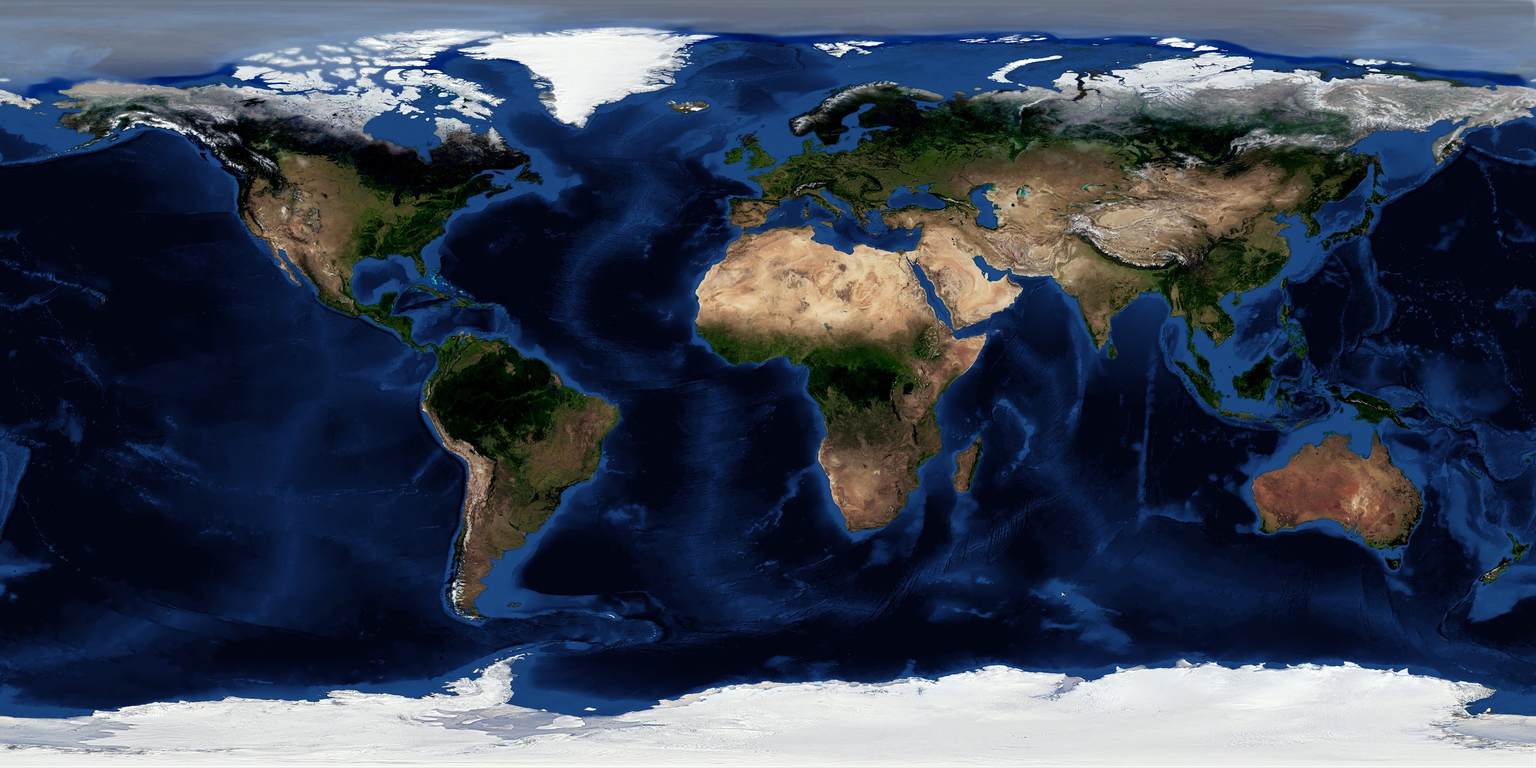
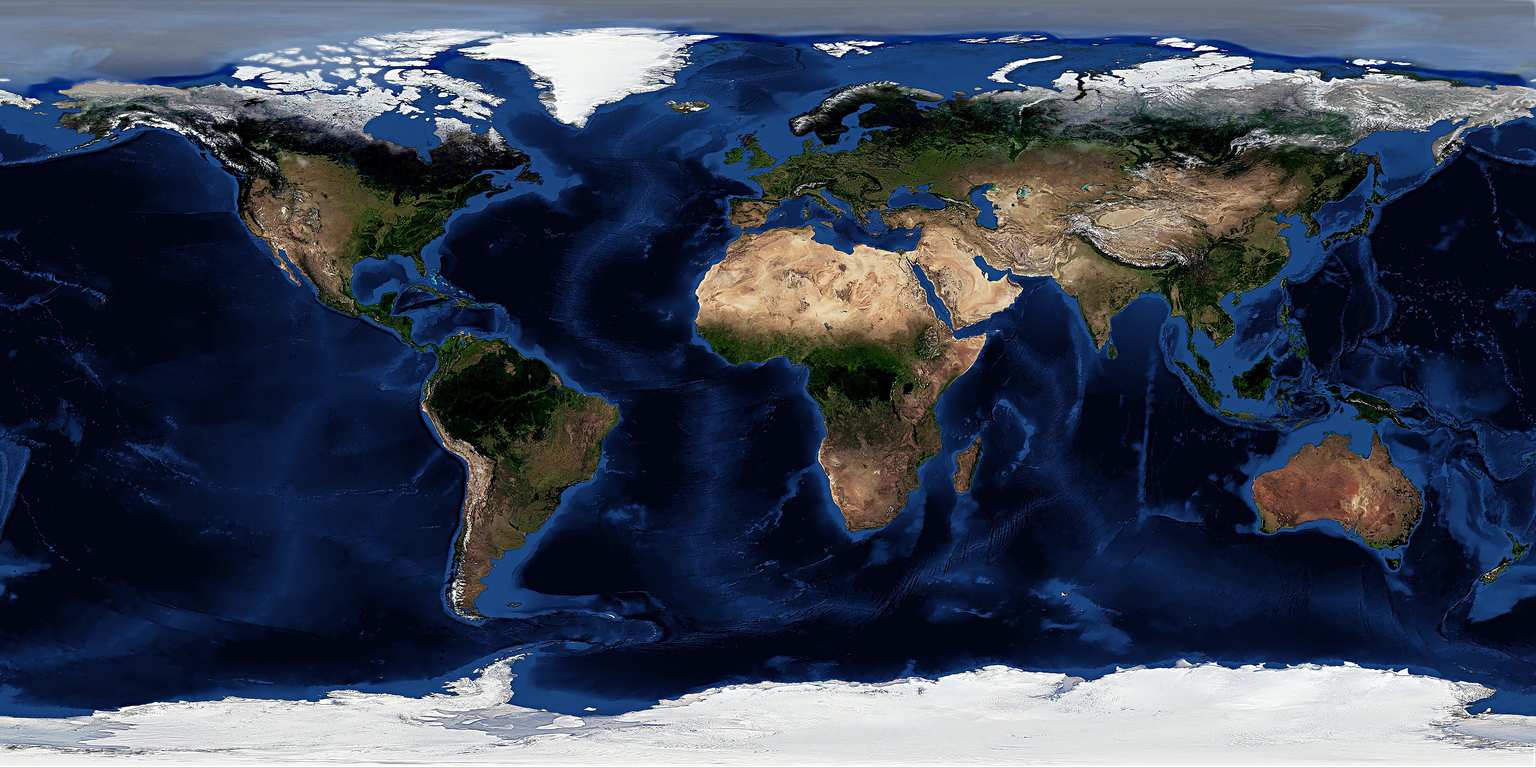
Earth: fix tablet (never send 33.6MP 8K textures to iOS/touch; tier-fallback chain), sharpen continents
- 8K tier now gated to non-touch desktop-class screens; tablets/phones get 4K/2K that iOS can decode
- texture load failures step down a tier instead of blanking to the static poster
- shader: unsharp mask on day texture + stronger relief so coastlines/mountains cast deeper shadows
- regenerated crisper day 8K/4K/2K from a sharpened master (Lanczos + unsharp)

Claude-Session: https://claude.ai/code/session_01KL3jcUpSkyjWKd14qw3BAf

diff --git a/assets/earth/earth.js b/assets/earth/earth.js
@@ -11,12 +11,20 @@
   if (!gl) { host.classList.add('static'); return; }
 
   var base = cv.getAttribute('data-base') || 'assets/earth/';
-  /* texture tier: 8K on large or high-density screens whose GPU allows it, 4K in between, 2K on phones */
-  var px = Math.max(screen.width, screen.height) * (window.devicePixelRatio || 1);
+  /* texture tier: 8K only on true desktop-class screens. Tablets/phones get 4K/2K, because
+     iOS and iPadOS Safari cannot reliably decode the 33.6MP 8K JPEGs and silently fail. */
+  var sLong = Math.max(screen.width, screen.height), sShort = Math.min(screen.width, screen.height);
+  var px = sLong * (window.devicePixelRatio || 1);
   var maxTex = gl.getParameter(gl.MAX_TEXTURE_SIZE);
-  var mob = Math.min(screen.width, screen.height) < 600;
-  var res = (!mob && px >= 2200 && maxTex >= 8192) ? '8k' : (px > 1700 && maxTex >= 4096) ? '4k' : '2k';
-  var cres = res === '8k' ? '4k' : res;
+  var touch = (navigator.maxTouchPoints || 0) > 0;
+  var iOS = /iP(hone|ad|od)/.test(navigator.userAgent) ||
+            (navigator.platform === 'MacIntel' && (navigator.maxTouchPoints || 0) > 1);
+  var mob = sShort < 600;
+  var res = (mob || maxTex < 4096) ? '2k'
+          : (!iOS && !touch && sShort >= 1100 && px >= 2600 && maxTex >= 8192) ? '8k'
+          : '4k';
+  /* if a tier's textures fail to decode, step down a tier rather than falling to the static poster */
+  var CHAIN = res === '8k' ? ['8k', '4k', '2k'] : res === '4k' ? ['4k', '2k'] : ['2k'];
 
   var VS = '#version 300 es\nin vec2 p;void main(){gl_Position=vec4(p,0.,1.);}';
   var FS = [
@@ -68,19 +76,23 @@
     '    float lon=atan(w.x,w.z),lat=asin(clamp(w.y,-1.,1.));',
     '    vec2 uv=vec2(lon/(2.*PI)+.5,.5-lat/PI);',
     '    vec2 dx=wrapd(dFdx(uv)),dy=wrapd(dFdy(uv));',
-    '    vec3 day=tex(uDay,uv,dx,dy).rgb;day=pow(day,vec3(2.2));',
+    /* day colour with an unsharp mask so coastlines and continents read crisp, not muddy */
+    '    vec2 dt=vec2(1.)/vec2(textureSize(uDay,0));',
+    '    vec3 d0=tex(uDay,uv,dx,dy).rgb;',
+    '    vec3 dR=tex(uDay,uv+vec2(dt.x,0.),dx,dy).rgb,dL=tex(uDay,uv-vec2(dt.x,0.),dx,dy).rgb;',
+    '    vec3 dU=tex(uDay,uv-vec2(0.,dt.y),dx,dy).rgb,dD=tex(uDay,uv+vec2(0.,dt.y),dx,dy).rgb;',
+    '    d0+=(d0*4.-dR-dL-dU-dD)*.17;',
+    '    vec3 day=pow(max(d0,0.),vec3(2.2));',
     '    vec3 ngt=pow(tex(uNight,uv,dx,dy).rgb,vec3(2.2));',
     '    vec4 sf=tex(uSurf,uv,dx,dy);float water=smoothstep(.35,.65,sf.r);',
-    /* relief: elevation map for mountains, fine colour detail from the 8K land map */
+    /* relief: elevation map for mountains, fine colour detail from the land map */
     '    vec2 ts=vec2(1./2048.,1./1024.);',
     '    float he=tex(uSurf,uv+vec2(ts.x,0.),dx,dy).g-tex(uSurf,uv-vec2(ts.x,0.),dx,dy).g;',
     '    float hn=tex(uSurf,uv-vec2(0.,ts.y),dx,dy).g-tex(uSurf,uv+vec2(0.,ts.y),dx,dy).g;',
-    '    vec2 dt=vec2(1.)/vec2(textureSize(uDay,0));',
-    '    float fe=lum(tex(uDay,uv+vec2(dt.x,0.),dx,dy).rgb)-lum(tex(uDay,uv-vec2(dt.x,0.),dx,dy).rgb);',
-    '    float fn=lum(tex(uDay,uv-vec2(0.,dt.y),dx,dy).rgb)-lum(tex(uDay,uv+vec2(0.,dt.y),dx,dy).rgb);',
+    '    float fe=lum(dR)-lum(dL),fn=lum(dU)-lum(dD);',
     '    float cl0=cos(lat);vec3 E=vec3(cos(lon),0.,-sin(lon)),N=vec3(-sin(lon)*sin(lat),cl0,-cos(lon)*sin(lat));',
     '    float land=1.-water;',
-    '    vec3 nw=normalize(w-(E*(he*7.+fe*2.2)+N*(hn*7.+fn*2.2))*land);',
+    '    vec3 nw=normalize(w-(E*(he*10.+fe*3.2)+N*(hn*10.+fn*3.2))*land);',
     '    vec3 Lw=M*L;',
     '    float d=dot(n,L);',
     '    float dr=mix(d,dot(nw,Lw),.85);',
@@ -213,11 +225,15 @@
   }).observe(host);
   document.addEventListener('visibilitychange', function () { if (!document.hidden && !run) { run = true; requestAnimationFrame(frame); } });
 
-  Promise.all([
-    load(0, 'uDay', 'day-' + res + '.jpg'),
-    load(1, 'uNight', 'night-' + res + '.jpg'),
-    load(2, 'uCloud', 'clouds-' + cres + '.jpg'),
-    load(3, 'uSurf', 'surface-2k.png')
-  ]).then(function () { t0 = 0; requestAnimationFrame(frame); })
-    .catch(function () { host.classList.add('static'); });
+  function boot(i) {
+    var r = CHAIN[i], cr = r === '8k' ? '4k' : r;
+    Promise.all([
+      load(0, 'uDay', 'day-' + r + '.jpg'),
+      load(1, 'uNight', 'night-' + r + '.jpg'),
+      load(2, 'uCloud', 'clouds-' + cr + '.jpg'),
+      load(3, 'uSurf', 'surface-2k.png')
+    ]).then(function () { t0 = 0; requestAnimationFrame(frame); })
+      .catch(function () { if (i + 1 < CHAIN.length) boot(i + 1); else host.classList.add('static'); });
+  }
+  boot(0);
 })();
